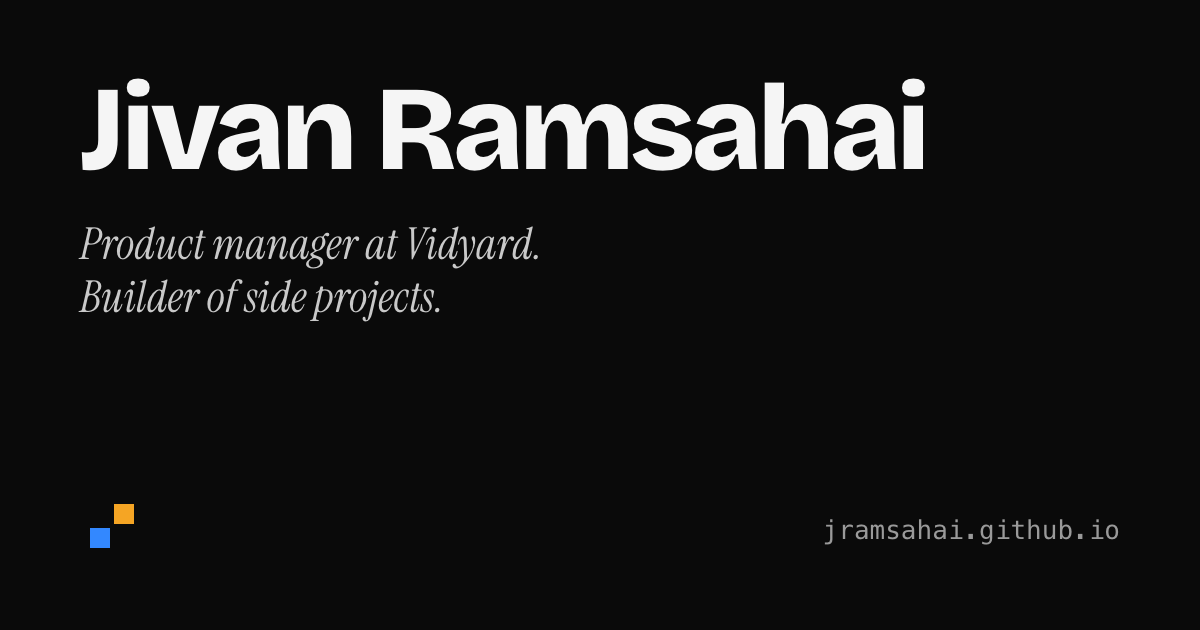
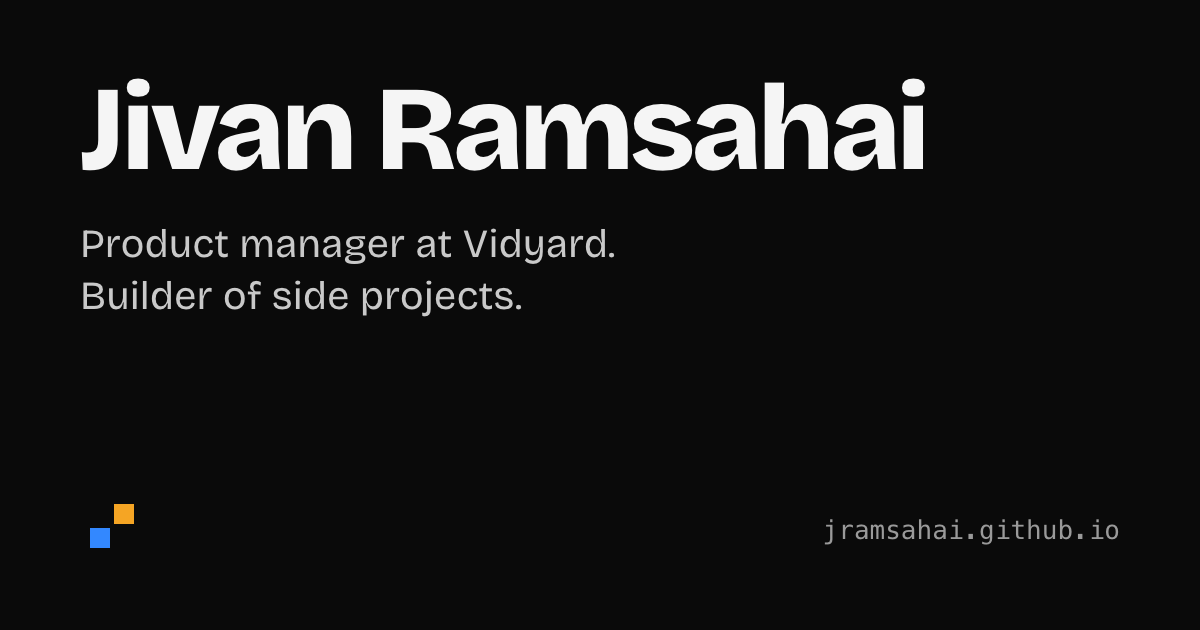
Switch lede and empty-state text from italic serif to Bricolage Grotesque
The thin Instrument Serif italic was hard to read. Lede text now uses the
site's body sans at regular weight, the OG image is re-rendered to match,
and the unused serif font files and CSS are removed.

Changed region(s): [[0.0617, 0.3619, 0.5242, 0.5127]]

diff --git a/docs/templates/og-default.html b/docs/templates/og-default.html
@@ -8,14 +8,14 @@
     html, body { width: 1200px; height: 630px; overflow: hidden; }
     body { position: relative; padding: 72px 80px; }
     .og-name { font-size: 120px; font-weight: 800; letter-spacing: -0.04em; line-height: 0.95; max-width: 12ch; }
-    .og-lede { margin-top: 32px; max-width: 24ch; font-family: var(--font-serif); font-style: italic; font-size: 44px; line-height: 1.2; color: var(--fg-soft); }
+    .og-lede { margin-top: 32px; max-width: 28ch; font-weight: 400; font-size: 40px; line-height: 1.3; color: var(--fg-soft); }
     .og-mark { position: absolute; left: 80px; bottom: 72px; width: 64px; height: 64px; }
     .og-url { position: absolute; right: 80px; bottom: 80px; font-family: var(--font-mono); font-size: 26px; color: var(--fg-muted); }
   </style>
 </head>
 <body>
   <div class="og-name">Jivan Ramsahai</div>
-  <div class="og-lede">Product manager at Vidyard. Builder of side projects.</div>
+  <div class="og-lede">Product manager at Vidyard.<br>Builder of side projects.</div>
   <svg class="og-mark" xmlns="http://www.w3.org/2000/svg" viewBox="0 0 64 64" aria-hidden="true">
     <rect x="10" y="34" width="20" height="20" fill="#3388FF"/>
     <rect x="34" y="10" width="20" height="20" fill="#F5A524"/>

diff --git a/assets/css/style.css b/assets/css/style.css
@@ -16,7 +16,6 @@
   --ai: #C084FC;
 
   --font-sans: "Bricolage Grotesque", system-ui, -apple-system, "Segoe UI", sans-serif;
-  --font-serif: "Instrument Serif", Georgia, "Times New Roman", serif;
   --font-mono: ui-monospace, "SF Mono", Menlo, Consolas, monospace;
 
   --measure: 64ch;
@@ -36,14 +35,6 @@
   src: url("/assets/fonts/bricolage-grotesque-latin-wght-normal.woff2") format("woff2");
   font-weight: 200 800;
   font-style: normal;
-  font-display: swap;
-}
-
-@font-face {
-  font-family: "Instrument Serif";
-  src: url("/assets/fonts/instrument-serif-latin-400-italic.woff2") format("woff2");
-  font-weight: 400;
-  font-style: italic;
   font-display: swap;
 }
 
@@ -199,11 +190,10 @@ main {
 
 .lede {
   margin-top: var(--space-3);
-  max-width: 36ch;
-  font-family: var(--font-serif);
-  font-style: italic;
-  font-size: clamp(1.375rem, 2.4vw, 1.875rem);
-  line-height: 1.3;
+  max-width: 44ch;
+  font-size: clamp(1.25rem, 2.2vw, 1.5rem);
+  font-weight: 400;
+  line-height: 1.4;
   color: var(--fg-soft);
 }
 
@@ -269,9 +259,7 @@ main > .section:first-child {
 }
 
 .empty {
-  font-family: var(--font-serif);
-  font-style: italic;
-  font-size: 1.25rem;
+  font-size: 1.125rem;
   color: var(--fg-muted);
 }
 
